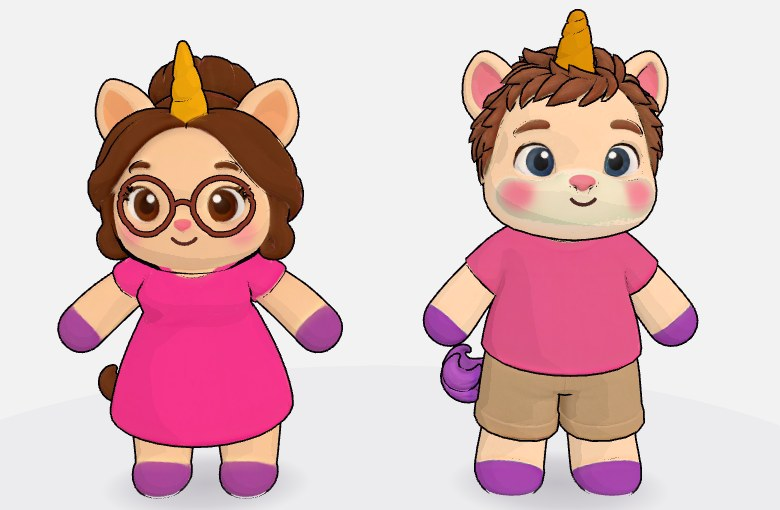
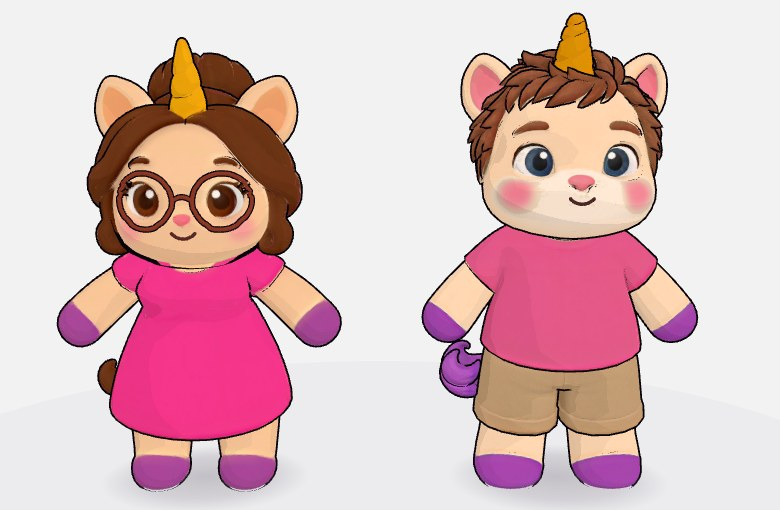
Review page for neb636/dad-skin

diff --git a/neb636--dad-skin/index.html b/neb636--dad-skin/index.html
@@ -37,11 +37,13 @@ button:focus-visible,.pill:focus-visible{outline:3px solid var(--ink);outline-of
 </style></head><body><main>
 <span class="chip">Check-in fix</span>
 <h1>Dad 5: your skin tone</h1>
-<p class="kaylee">The new Dad is now a pale peach in Mom's hue (your pick, the middle one), with a thicker outline like hers.</p>
+<p class="kaylee">The new Dad is a pale peach in Mom's hue (your pick), with an outline like hers, and no green left around his mouth.</p>
 
 
 <h2>Before and after</h2><div class="pics"><figure class="solo"><img src="pics/final.jpg" alt="Next to Mom" loading="lazy">
 <figcaption><b>Next to Mom</b>: Mom and Dad 5: the same warm hue, his a little paler, both outlines at 1</figcaption></figure>
+<figure class="pair"><div><img src="pics/muzzle-before.jpg" alt="Before: Around his mouth" loading="lazy"><span>Before</span></div><div><img src="pics/muzzle-after.jpg" alt="After: Around his mouth" loading="lazy"><span>After</span></div>
+<figcaption><b>Around his mouth</b>: The green-tinged cream is now a warm cream that matches his skin</figcaption></figure>
 <figure class="pair"><div><img src="pics/face-mint.jpg" alt="Before: Close up" loading="lazy"><span>Before</span></div><div><img src="pics/face-final.jpg" alt="After: Close up" loading="lazy"><span>After</span></div>
 <figcaption><b>Close up</b>: Mint, outline 0.35 → peach, outline 1</figcaption></figure></div>
 
